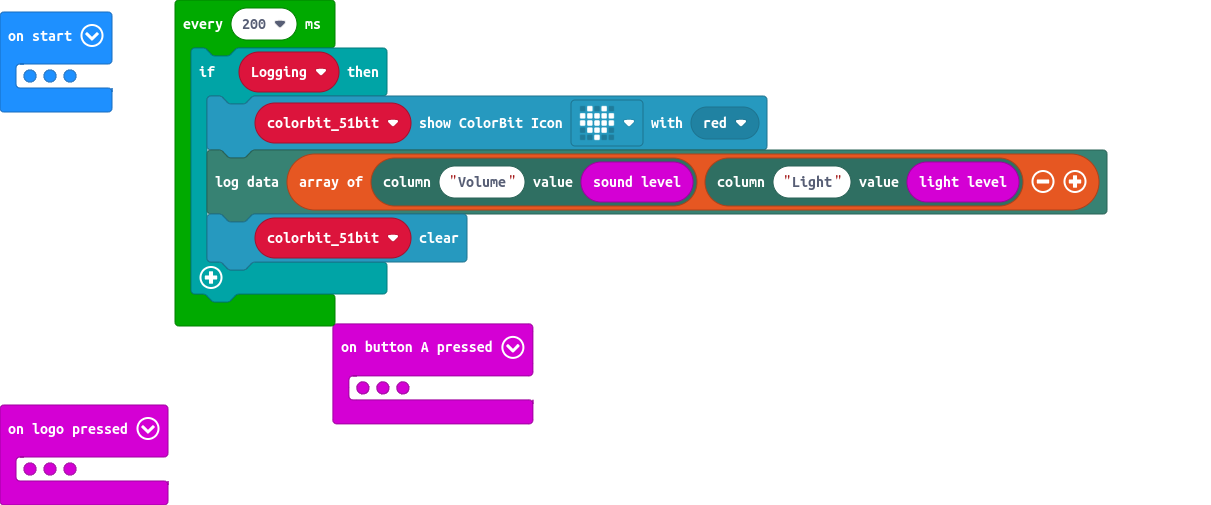
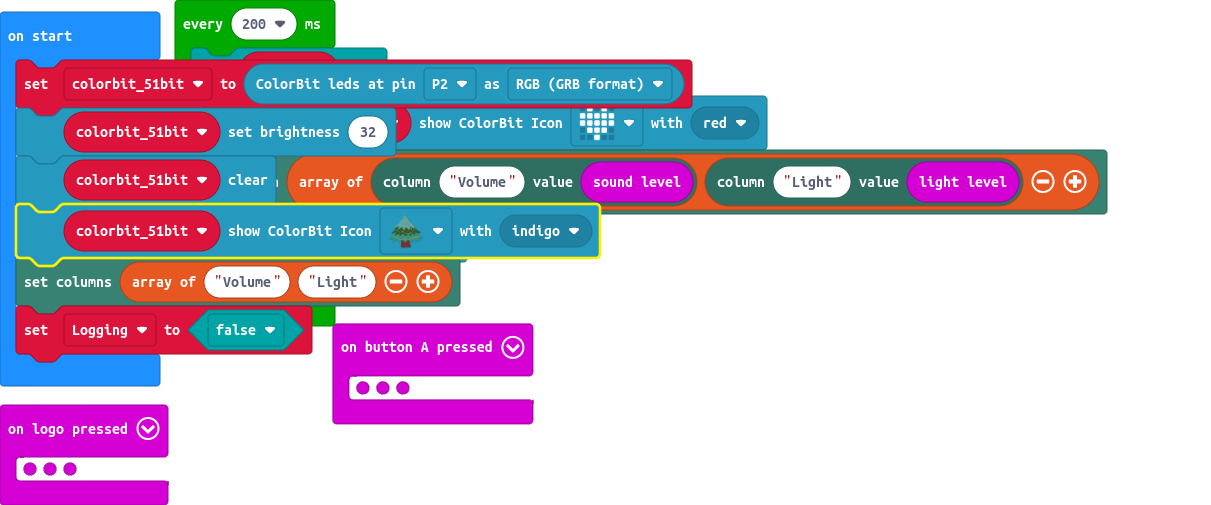
change tree to indigo

Changed region(s): [[0.0, 0.0, 0.5805, 0.7723]]

diff --git a/main.ts b/main.ts
@@ -10,7 +10,7 @@ let colorbit_51bit: colorbit.Strip = null
 colorbit_51bit = colorbit.initColorBit(DigitalPin.P2, BitColorMode.RGB)
 colorbit_51bit.setBrightness(32)
 colorbit_51bit.clear()
-colorbit_51bit.showColorIcon(ColorIcon.ChristmasTree, colorbit.colors(BitColors.Yellow))
+colorbit_51bit.showColorIcon(ColorIcon.ChristmasTree, colorbit.colors(BitColors.Indigo))
 datalogger.setColumns(["Volume", "Light"])
 Logging = false
 loops.everyInterval(200, function () {
